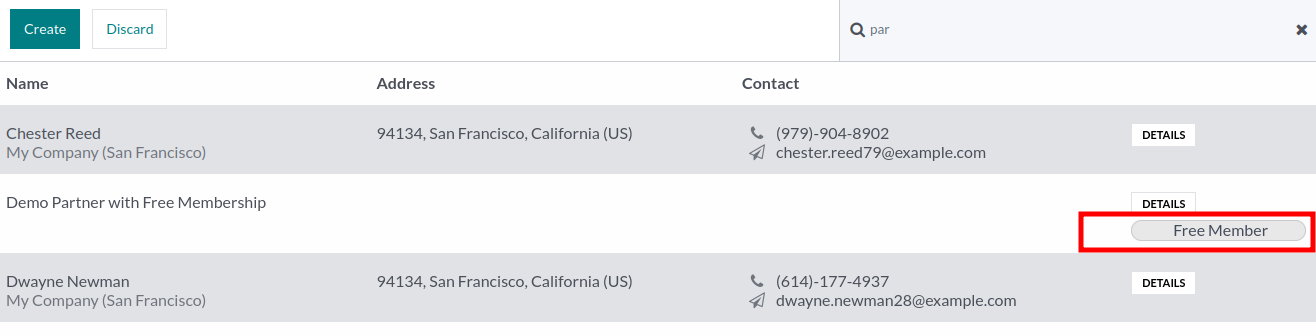
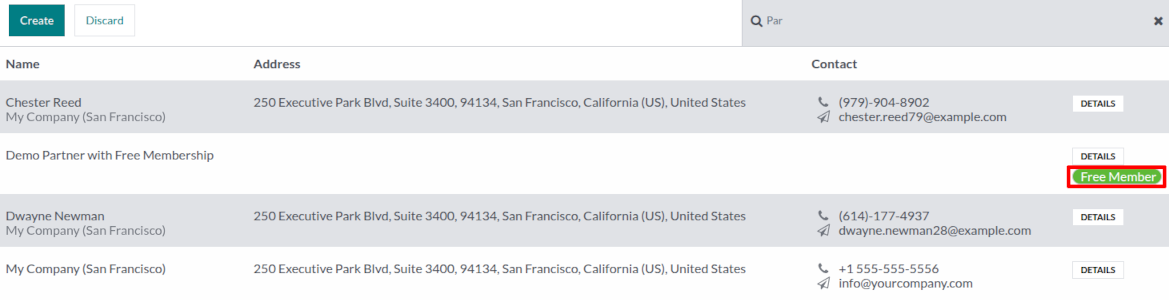
[IMP] pos_membership: highlight membership status

diff --git a/pos_membership/static/description/index.html b/pos_membership/static/description/index.html
@@ -373,19 +373,28 @@ ul.auto-toc {
 <p>This module extends the functionality of point of sale module, to
 add informations related to Odoo <tt class="docutils literal">membership</tt> module.</p>
 <p>For instance :</p>
-<ul class="simple">
-<li>It displays the field ‘Current Membership Status’ of the partners in the
-point of sale screen. (partner list and partner form view)</li>
-</ul>
+<ul>
+<li><p class="first">It displays the field ‘Current Membership Status’ of the partners in the
+point of sale screen. (partner list, partner form view and product screen)</p>
+<p>The field is displayed in green if it matches “Invoiced Member”,
+“Free Member” or “Paid Member” and in red if it matches “Cancelled Member”,
+“Old Member” or “Waiting Member”.</p>
 <p><strong>Partner List View</strong></p>
 <div class="figure">
 <img alt="https://raw.githubusercontent.com/OCA/pos/16.0/pos_membership/static/description/pos_ui_partner_tree.png" src="https://raw.githubusercontent.com/OCA/pos/16.0/pos_membership/static/description/pos_ui_partner_tree.png" />
 </div>
-<p><strong>Partner Form View</strong>
-.. figure:: <a class="reference external" href="https://raw.githubusercontent.com/OCA/pos/16.0/pos_membership/static/description/pos_ui_partner_form.png">https://raw.githubusercontent.com/OCA/pos/16.0/pos_membership/static/description/pos_ui_partner_form.png</a></p>
-<ul class="simple">
-<li>it raises an error, if cashier try to sell a membership product,
-without having selected the ‘Invoice’ option.</li>
+<p><strong>Partner Form View</strong></p>
+<div class="figure">
+<img alt="https://raw.githubusercontent.com/OCA/pos/16.0/pos_membership/static/description/pos_ui_partner_form.png" src="https://raw.githubusercontent.com/OCA/pos/16.0/pos_membership/static/description/pos_ui_partner_form.png" />
+</div>
+<p><strong>Product Screen</strong></p>
+<div class="figure">
+<img alt="https://raw.githubusercontent.com/OCA/pos/16.0/pos_membership/static/description/pos_ui_product_screen.png" src="https://raw.githubusercontent.com/OCA/pos/16.0/pos_membership/static/description/pos_ui_product_screen.png" />
+</div>
+</li>
+<li><p class="first">it raises an error, if cashier try to sell a membership product,
+without having selected the ‘Invoice’ option.</p>
+</li>
 </ul>
 <div class="figure">
 <img alt="https://raw.githubusercontent.com/OCA/pos/16.0/pos_membership/static/description/pos_warning_sell_membership_product.png" src="https://raw.githubusercontent.com/OCA/pos/16.0/pos_membership/static/description/pos_warning_sell_membership_product.png" />

diff --git a/pos_membership/static/src/css/pos_membership.css b/pos_membership/static/src/css/pos_membership.css
@@ -4,12 +4,27 @@
     License AGPL-3 - See http://www.gnu.org/licenses/agpl-3.0.html
 */
 
+.pos i.membership-green {
+    color: rgb(94, 185, 55);
+}
+
+.pos i.membership-red {
+    color: rgb(197, 52, 0);
+}
+
+.pos .partnerlist-screen .partner-list span.membership-green {
+    background-color: rgb(94, 185, 55);
+}
+
+.pos .partnerlist-screen .partner-list span.membership-red {
+    background-color: rgb(197, 52, 0);
+}
+
 .pos .partnerlist-screen .partner-list span.membership-state-tag {
     border-radius: 50rem !important;
     border: 1px solid #cacaca;
     font-size: 16px;
-    background-color: rgba(211, 211, 211, 0.5);
-    color: #444b5a;
+    color: white;
     overflow: hidden;
     text-overflow: ellipsis;
     margin-top: 4px;

diff --git a/pos_membership/static/src/js/ActionpadWidget.esm.js b/pos_membership/static/src/js/ActionpadWidget.esm.js
@@ -1,0 +1,14 @@
+/** @odoo-module **/
+
+import {formatDate, parseDate} from "@web/core/l10n/dates";
+import ActionpadWidget from "point_of_sale.ActionpadWidget";
+import {Component} from "point_of_sale.Registries";
+
+const MembershipActionpadWidget = (OriginalActionpadWidget) =>
+    class extends OriginalActionpadWidget {
+        formatDate(date) {
+            return formatDate(parseDate(date));
+        }
+    };
+
+Component.extend(ActionpadWidget, MembershipActionpadWidget);

diff --git a/pos_membership/models/res_partner.py b/pos_membership/models/res_partner.py
@@ -8,6 +8,7 @@ from odoo import api, fields, models
 class PosSession(models.Model):
     _inherit = "res.partner"
 
+    is_member = fields.Boolean(compute="_compute_membership_state_text")
     membership_state_text = fields.Char(
         compute="_compute_membership_state_text",
         help="Technical field used to display the label"
@@ -21,3 +22,13 @@ class PosSession(models.Model):
             partner.membership_state_text = dict(
                 self._fields["membership_state"]._description_selection(self.env)
             )[partner.membership_state]
+            partner.is_member = (
+                partner.membership_state in self.membership_member_states()
+            )
+
+    def membership_member_states(self):
+        """Inherit this method to define membership states
+
+        List of membership line states that define a partner as member
+        """
+        return ("invoiced", "free", "paid")

diff --git a/pos_membership/__manifest__.py b/pos_membership/__manifest__.py
@@ -15,9 +15,8 @@
     "assets": {
         "point_of_sale.assets": [
             "pos_membership/static/src/css/pos_membership.css",
-            "pos_membership/static/src/xml/PartnerDetailsEdit.xml",
-            "pos_membership/static/src/xml/PartnerLine.xml",
-            "pos_membership/static/src/js/PaymentScreen.js",
+            "pos_membership/static/src/xml/*.xml",
+            "pos_membership/static/src/js/*.js",
         ],
     },
     "demo": [

diff --git a/pos_membership/models/pos_session.py b/pos_membership/models/pos_session.py
@@ -11,8 +11,10 @@ class PosSession(models.Model):
     def _loader_params_res_partner(self):
         res = super()._loader_params_res_partner()
         res["search_params"]["fields"] += [
+            "is_member",
             "membership_state",
             "membership_state_text",
+            "membership_stop",
         ]
         return res
 

diff --git a/pos_membership/README.rst b/pos_membership/README.rst
@@ -34,14 +34,23 @@ add informations related to Odoo ``membership`` module.
 For instance :
 
 - It displays the field 'Current Membership Status' of the partners in the
-  point of sale screen. (partner list and partner form view)
+  point of sale screen. (partner list, partner form view and product screen)
 
-**Partner List View**
+  The field is displayed in green if it matches "Invoiced Member",
+  "Free Member" or "Paid Member" and in red if it matches "Cancelled Member",
+  "Old Member" or "Waiting Member".
 
-.. figure:: https://raw.githubusercontent.com/OCA/pos/16.0/pos_membership/static/description/pos_ui_partner_tree.png
+  **Partner List View**
 
-**Partner Form View**
-.. figure:: https://raw.githubusercontent.com/OCA/pos/16.0/pos_membership/static/description/pos_ui_partner_form.png
+  .. figure:: https://raw.githubusercontent.com/OCA/pos/16.0/pos_membership/static/description/pos_ui_partner_tree.png
+
+  **Partner Form View**
+
+  .. figure:: https://raw.githubusercontent.com/OCA/pos/16.0/pos_membership/static/description/pos_ui_partner_form.png
+
+  **Product Screen**
+
+  .. figure:: https://raw.githubusercontent.com/OCA/pos/16.0/pos_membership/static/description/pos_ui_product_screen.png
 
 - it raises an error, if cashier try to sell a membership product,
   without having selected the 'Invoice' option.

diff --git a/pos_membership/readme/DESCRIPTION.rst b/pos_membership/readme/DESCRIPTION.rst
@@ -4,14 +4,23 @@ add informations related to Odoo ``membership`` module.
 For instance :
 
 - It displays the field 'Current Membership Status' of the partners in the
-  point of sale screen. (partner list and partner form view)
+  point of sale screen. (partner list, partner form view and product screen)
 
-**Partner List View**
+  The field is displayed in green if it matches "Invoiced Member",
+  "Free Member" or "Paid Member" and in red if it matches "Cancelled Member",
+  "Old Member" or "Waiting Member".
 
-.. figure:: ../static/description/pos_ui_partner_tree.png
+  **Partner List View**
 
-**Partner Form View**
-.. figure:: ../static/description/pos_ui_partner_form.png
+  .. figure:: ../static/description/pos_ui_partner_tree.png
+
+  **Partner Form View**
+
+  .. figure:: ../static/description/pos_ui_partner_form.png
+
+  **Product Screen**
+
+  .. figure:: ../static/description/pos_ui_product_screen.png
 
 - it raises an error, if cashier try to sell a membership product,
   without having selected the 'Invoice' option.
